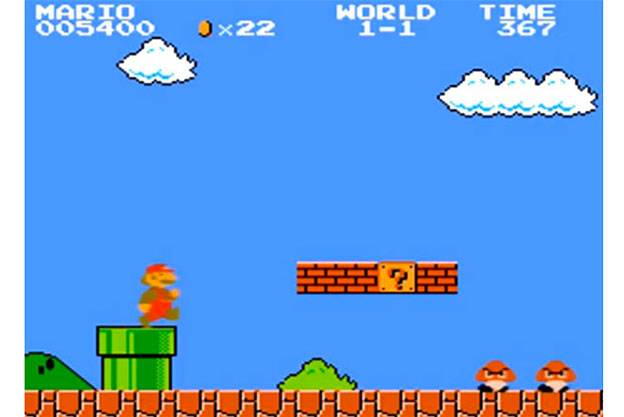
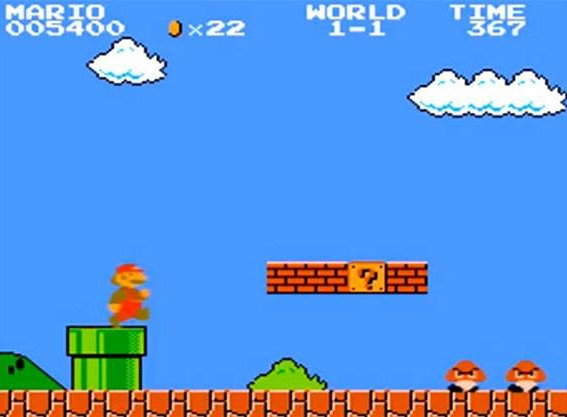
Add files via upload

diff --git a/index.html b/index.html
@@ -1,13 +1,14 @@
 <!DOCTYPE html>
 <html lang="pt-BR">
-  <head>
-    <meta charset="UTF-8" />
-    <meta http-equiv="X-UA-Compatible" content="IE=edge" />
-    <meta name="viewport" content="width=device-width, initial-scale=1.0" />
-    <link rel="stylesheet" href="style.css">
-    <title>Exercicio CSS</title>
-  </head>
-  <!--Essa página foi criada utilizando como base de fonte o artigo do site: super.abril.com.br/tecnologia/os-30-games-mais-importantes-de-todos-os-tempos/ 
+
+<head>
+  <meta charset="UTF-8" />
+  <meta http-equiv="X-UA-Compatible" content="IE=edge" />
+  <meta name="viewport" content="width=device-width, initial-scale=1.0" />
+  <link rel="stylesheet" href="style.css">
+  <title>Exercicio CSS</title>
+</head>
+<!--Essa página foi criada utilizando como base de fonte o artigo do site: super.abril.com.br/tecnologia/os-30-games-mais-importantes-de-todos-os-tempos/ 
 Autor: Pablo Miyazawa Atualizado em 27 mar 2020 
 
   <body>
@@ -22,95 +23,110 @@ Autor: Pablo Miyazawa Atualizado em 27 mar 2020
       </p>
       </div>
 -->
-      <body>
-      <div class="nav1">
-      <div class="titulo">
+
+<body>
+  <div class="nav1">
+    <div class="titulo">
       <h2>Jogos influentes:</h2>
     </div>
-      <nav>
-        <ul class="aba">
-          <a href="#space"><li>1978 - Space Invaders</li></a>
-          <a href="#pac"><li>1980 - Pac Man</li></a>
-          <a href="#dk"><li>1981 - Donkey Kong</li></a>
-          <a href="#mario"><li>1985 - Super Mario Bros.</li></a>
-        </ul>
-      </nav>
-    </div>
-
-    <div class="space">
-    <div class="conteudo-padrao">
-      <h2 id="space">1978 – Space Invaders</h2>
-      <p>
-        Se Pong fez as pessoas se acostumarem a jogar em público, Space Invaders
-        levou o vício a um novo patamar. Foi o produto que deu um sopro de ânimo
-        a um abatido nicho de mercado e que inspirou muitos pretendentes a
-        designers a seguir na profissão (Shigeru Miyamoto, da Nintendo, e Hideo
-        Kojima, da Konami, se declaram influenciados pelo jogo). Em 1978, a
-        presença de Space Invaders no Japão era maciça – em bares, restaurantes,
-        shopping centers. Em dois anos, a Taito distribuiu 360 mil máquinas no
-        mundo (um sexto delas apenas nos EUA), que renderam mais de US$ 2
-        bilhões em fichas (moedas, no caso) ao final de 1982.
-      </p>
-    </div>
-      <img src="img/space-invaders.webp" alt="imagem jogo pacman" />
+    <nav>
+      <ul class="aba">
+        <a href="#space">
+          <li>1978 - Space Invaders</li>
+        </a>
+        <a href="#pac">
+          <li>1980 - Pac Man</li>
+        </a>
+        <a href="#dk">
+          <li>1981 - Donkey Kong</li>
+        </a>
+        <a href="#mario">
+          <li>1985 - Super Mario Bros.</li>
+        </a>
+      </ul>
+    </nav>
   </div>
 
+  <div class="geralzao">
 
-    <div class="conteudo-padrao">
-      <h2 id="pac">1980 – Pac-Man</h2>
-      <p>
-        O grande público já estava mais acostumado aos videogames na entrada da
-        nova década, o que fez o sucesso de Pac-Man algo inevitável. Pela
-        primeira vez o jogador pôde se relacionar realmente com um protagonista
-        – mesmo que ele fosse uma bola amarela com crises de apetite e
-        perseguida por fantasmas obcecados.
-      </p>
-      <img src="img/pacman.jpg" alt="imagem jogo pacman" />
-      <p>
-        Antes do herói criado por Toru Iwatani (diz a lenda que ele se inspirou
-        no formato de uma pizza cortada para criá-lo), games eram estrelados por
-        personagens anônimos. Mais do que um fenômeno cultural e midiático que
-        rendeu rios de dinheiro aos envolvidos, Pac-Man era a peça que faltava
-        para estabelecer definitivamente os games no imaginário popular.
-      </p>
+    <div class="geral">
+      <div class="conteudo-padrao">
+        <h2 id="space">1978 – Space Invaders</h2>
+        <p>
+          Se Pong fez as pessoas se acostumarem a jogar em público, Space Invaders
+          levou o vício a um novo patamar. Foi o produto que deu um sopro de ânimo
+          a um abatido nicho de mercado e que inspirou muitos pretendentes a
+          designers a seguir na profissão (Shigeru Miyamoto, da Nintendo, e Hideo
+          Kojima, da Konami, se declaram influenciados pelo jogo). Em 1978, a
+          presença de Space Invaders no Japão era maciça – em bares, restaurantes,
+          shopping centers. Em dois anos, a Taito distribuiu 360 mil máquinas no
+          mundo (um sexto delas apenas nos EUA), que renderam mais de US$ 2
+          bilhões em fichas (moedas, no caso) ao final de 1982.
+        </p>
+      </div>
+      <img src="img/space-invaders.webp" alt="imagem jogo pacman" />
     </div>
 
+    <div class="geral">
+      <div class="conteudo-padrao">
+        <h2 id="pac">1980 – Pac-Man</h2>
+        <p>
+          O grande público já estava mais acostumado aos videogames na entrada da
+          nova década, o que fez o sucesso de Pac-Man algo inevitável. Pela
+          primeira vez o jogador pôde se relacionar realmente com um protagonista
+          – mesmo que ele fosse uma bola amarela com crises de apetite e
+          perseguida por fantasmas obcecados.
+          Antes do herói criado por Toru Iwatani (diz a lenda que ele se inspirou
+          no formato de uma pizza cortada para criá-lo), games eram estrelados por
+          personagens anônimos. Mais do que um fenômeno cultural e midiático que
+          rendeu rios de dinheiro aos envolvidos, Pac-Man era a peça que faltava
+          para estabelecer definitivamente os games no imaginário popular.
+        </p>
+      </div>
+      <img src="img/pacman.jpg" alt="imagem jogo pacman" />
+    </div>
 
-    <div class="conteudo-padrao">
-      <h2 id="dk">1981 – Donkey Kong</h2>
-      <p>
-        O marco zero das narrativas nos games também é celebrado por ter sido o
-        primeiro jogo dirigido por Shigeru Miyamoto, na época um promissor
-        designer da Nintendo. Em Donkey Kong, o vilão batiza o jogo, deixando
-        para o herói Jumpman o papel de coadjuvante (rebatizado de “Mario” anos
-        mais tarde, o encanador acabou tornando-se o maior protagonista da
-        história dos games). Inspirado pelo filme King Kong, Miyamoto
-        determinou a premissa do gênero “plataforma” – correr e pular para
-        alcançar novos caminhos -, que dominou os games durante mais de uma
-        década. Curiosidade: até hoje há pessoas tentando quebrar o recorde do
-        jogo. A disputa entre os dois principais jogadores foi retratada no
-        ótimo documentário King of Kong.
-      </p>
+    <div class="geral">
+      <div class="conteudo-padrao">
+        <h2 id="dk">1981 – Donkey Kong</h2>
+        <p>
+          O marco zero das narrativas nos games também é celebrado por ter sido o
+          primeiro jogo dirigido por Shigeru Miyamoto, na época um promissor
+          designer da Nintendo. Em Donkey Kong, o vilão batiza o jogo, deixando
+          para o herói Jumpman o papel de coadjuvante (rebatizado de “Mario” anos
+          mais tarde, o encanador acabou tornando-se o maior protagonista da
+          história dos games). Inspirado pelo filme King Kong, Miyamoto
+          determinou a premissa do gênero “plataforma” – correr e pular para
+          alcançar novos caminhos -, que dominou os games durante mais de uma
+          década. Curiosidade: até hoje há pessoas tentando quebrar o recorde do
+          jogo. A disputa entre os dois principais jogadores foi retratada no
+          ótimo documentário King of Kong.
+        </p>
+      </div>
       <img src="img/dk.jpg" alt="imagem jogo donkey kong">
     </div>
 
 
-
-    <div class="conteudo-padrao">
-      <h2 id="mario">1985 – Super Mario Bros.</h2>
+    <div class="geral">
+      <div class="conteudo-padrao">
+        <h2 id="mario">1985 – Super Mario Bros.</h2>
+        <p>
+          Criado por Shigeru Miyamoto, Super Mario Bros. revolucionou de cara,
+          obrigando o jogador a seguir sempre adiante, explorando oito mundos com
+          uma inédita variedade de cenários e utilizando poderes que nenhum título
+          oferecia. Mario pode crescer, atirar fogo, correr e saltar, além de
+          eliminar inimigos de maneiras diferentes. Nunca um herói virtual foi
+          controlado de modo tão refinado e preciso. Simples de aprender e difícil
+          de dominar (e largar), foi inspiração para todos os games de ação.
+        </p>
+      </div>
       <img src="img/mario.jpg" alt="imagem jogo super mario">
-      <p>
-        Criado por Shigeru Miyamoto, Super Mario Bros. revolucionou de cara,
-        obrigando o jogador a seguir sempre adiante, explorando oito mundos com
-        uma inédita variedade de cenários e utilizando poderes que nenhum título
-        oferecia. Mario pode crescer, atirar fogo, correr e saltar, além de
-        eliminar inimigos de maneiras diferentes. Nunca um herói virtual foi
-        controlado de modo tão refinado e preciso. Simples de aprender e difícil
-        de dominar (e largar), foi inspiração para todos os games de ação.
-      </p>
     </div>
 
 
-    <footer>Aula para formatação de CSS. Nome do aluno.</footer>
-  </body>
+  </div>
+
+  <footer>Aula para formatação de CSS. Nome do aluno.</footer>
+</body>
+
 </html>

diff --git a/style.css b/style.css
@@ -1,12 +1,21 @@
 @import url('https://fonts.googleapis.com/css2?family=Pixelify+Sans:wght@400..700&display=swap');
-*{
+
+* {
     font-family: "Pixelify Sans", sans-serif;
     padding: 0;
     margin: 0;
-
     color: aliceblue;
 }
-#intro-pag{
+
+img {
+    width: 400px;
+}
+
+body {
+    background-image: linear-gradient(black, blueviolet);
+}
+
+#intro-pag {
     display: flex;
     justify-content: center;
     align-items: center;
@@ -14,51 +23,64 @@
     flex-wrap: wrap;
     gap: 20px;
 }
-.nav1{
+
+.nav1 {
     padding: 20px;
     margin-top: 20px;
-    border: 3px solid white;
+    margin-bottom: 30px;
 }
-.titulo{
-    margin-bottom: 20px;
-}
-.aba{
+
+.aba {
     list-style: none;
     display: flex;
     justify-content: center;
     align-items: center;
     gap: 30px;
 }
-a{
-    transition: ease 0,3s;
+
+a {
     text-decoration: none;
     border: 1px solid white;
     padding: 10px;
     border-radius: 10px;
-    box-shadow: 3px 3px 3px  white
+    box-shadow: 3px 3px 3px white;
 }
-a:hover{
+
+a:hover {
     border-color: blueviolet;
-    box-shadow:3px 3px 3px  blueviolet;
+    box-shadow: 3px 3px 3px blueviolet;
 }
-.titulo{
+
+.titulo {
     display: flex;
     justify-content: center;
     align-items: center;
+    margin-bottom: 20px;
 }
-.conteudo-padrao{
-    display: flex   ;
+
+.geralzao {
+    display: flex;
+    flex-wrap: wrap;
+    align-items: center;
+    justify-content: center;
+    gap: 30px;
+}
+
+.geral {
+    width: 1000px;
+    display: flex;
+    border: 7px solid white;
+    border-radius: 20px;
+    gap: 100px;
+    box-shadow: 7px 7px 7px black;
+    padding: 4px;
+}
+
+.conteudo-padrao {
+    display: flex;
     align-items: center;
     justify-content: center;
     text-align: center;
     flex-direction: column;
     margin-left: 10%;
 }
-.space{
-    display: flex;
-    border: 3px solid white;
-    
-}
-body{
-    background-image: linear-gradient(black,blueviolet);
-}   
